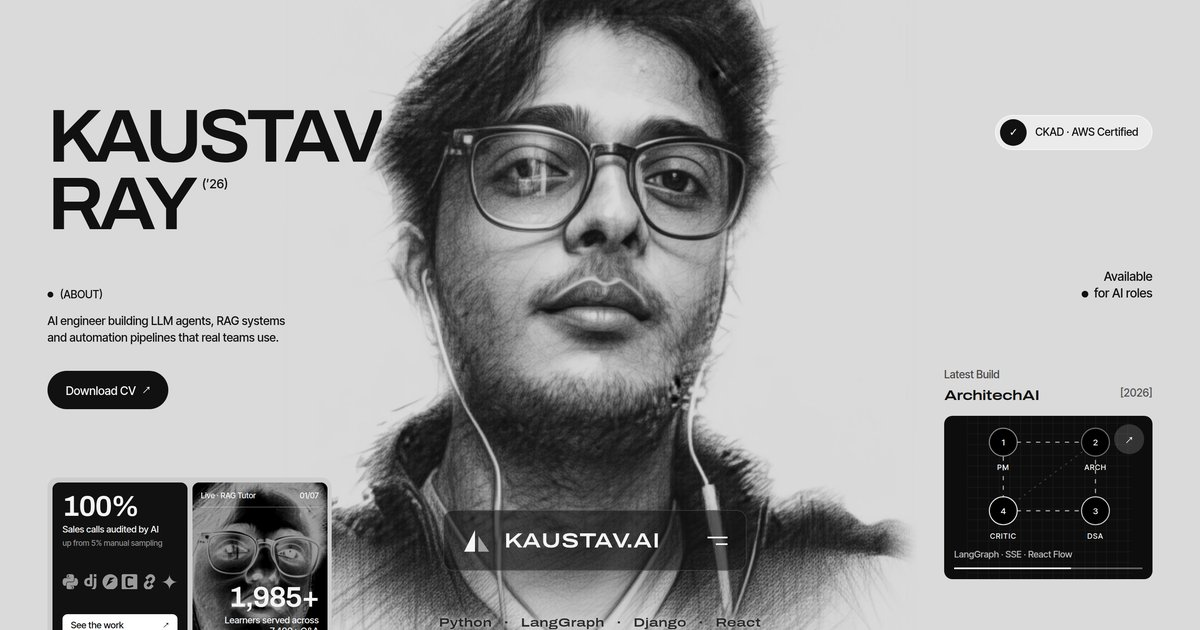
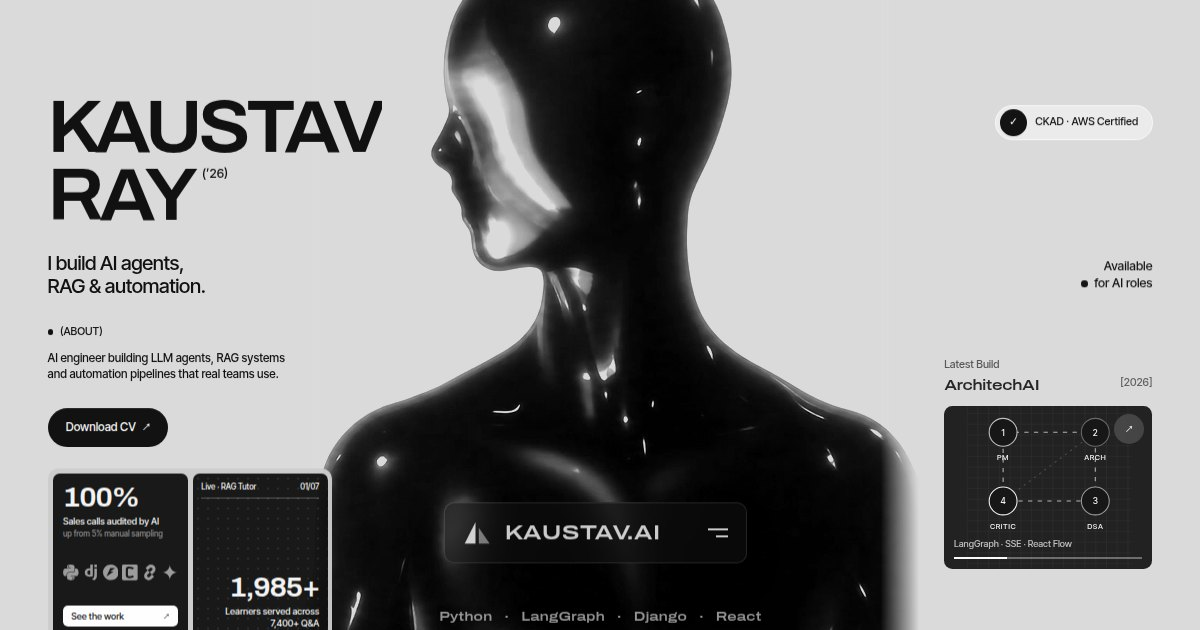
chore(seo): regenerate og.jpg from the new video hero

diff --git a/index.html b/index.html
@@ -19,7 +19,7 @@
     <meta property="og:image" content="https://kaustavray21.github.io/og.jpg" />
     <meta property="og:image:width" content="1200" />
     <meta property="og:image:height" content="630" />
-    <meta property="og:image:alt" content="KAUSTAV RAY — pencil-sketch portrait on a grey editorial layout" />
+    <meta property="og:image:alt" content="KAUSTAV RAY — greyscale 3D figure on a grey editorial layout" />
     <meta name="twitter:card" content="summary_large_image" />
     <meta name="twitter:title" content="Kaustav Ray — AI Engineer" />
     <meta name="twitter:description" content="LLM agents, RAG systems and workflow automation that ship." />
